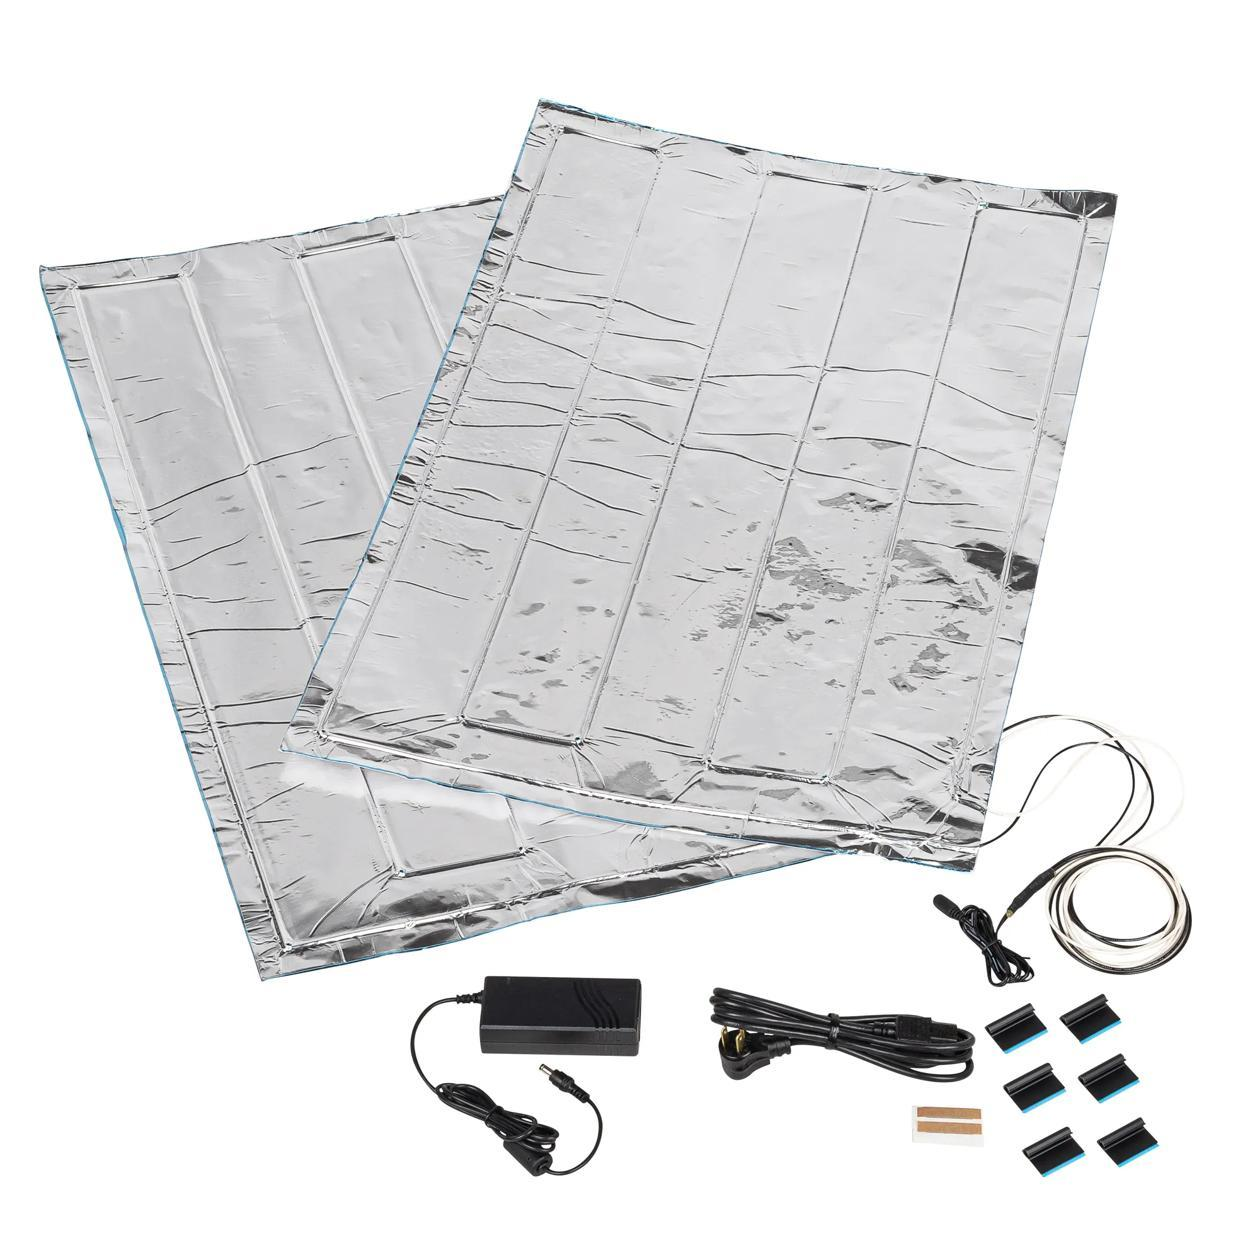
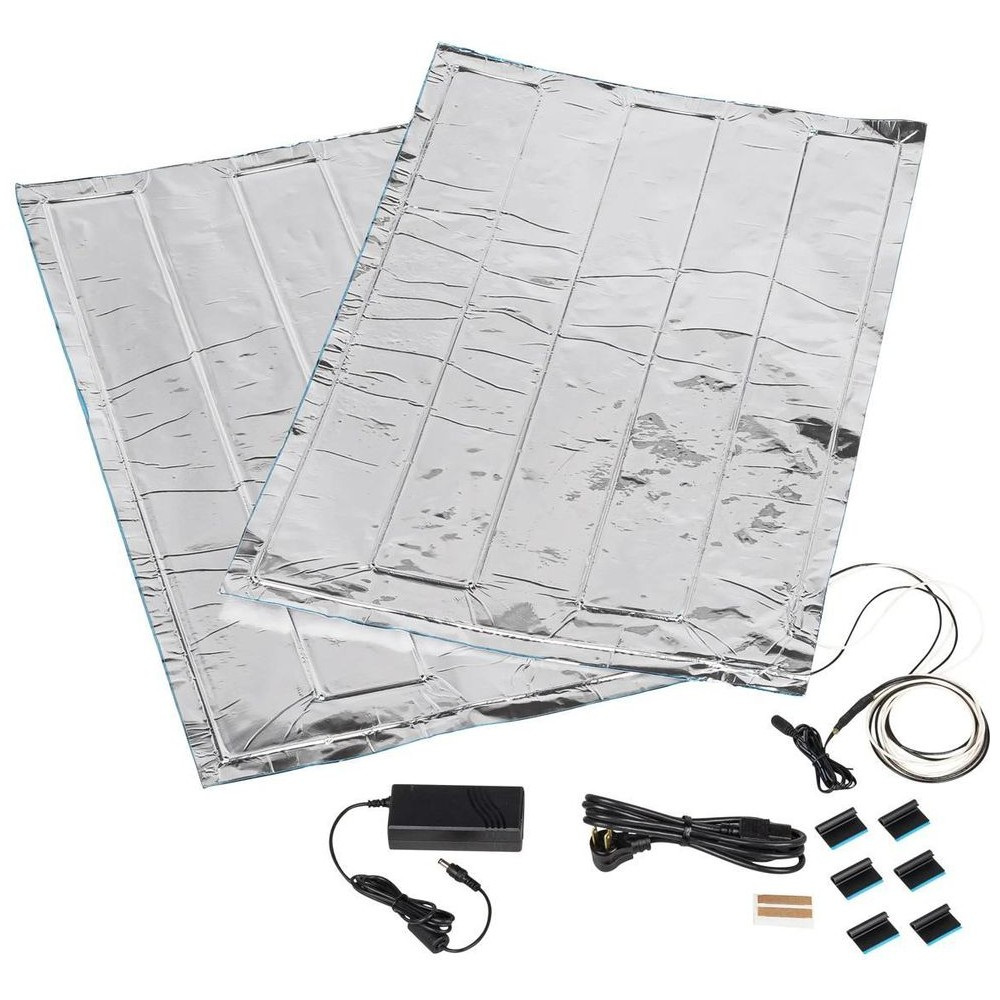
Add /refurbished page + nav link; normalise stock photos so products fill their tiles evenly

Changed region(s): [[0.0, 0.031, 0.992, 0.961], [0.186, 0.341, 0.248, 0.372]]

diff --git a/app/refurbished/page.jsx b/app/refurbished/page.jsx
@@ -1,0 +1,56 @@
+import { getAvailable } from '../../lib/inventory';
+import { getSession } from '../../lib/auth';
+import { decorate } from '../../lib/pricing';
+import { CONDITIONS, money } from '../../lib/constants';
+import ProductCard from '../../components/ProductCard';
+import { groupByModel } from '../../lib/group-units';
+
+export const dynamic = 'force-dynamic';
+
+export const metadata = {
+  title: 'Refurbished Appliances — Inspected, Repaired & Bench-Tested | Bargain Bay',
+  description:
+    'Refurbished appliances at Bargain Bay — professionally inspected, repaired where needed and bench-tested back to full working order, with a one-year warranty. Pickup, delivery & freight serving Pickering, Scarborough and the GTA.'
+};
+
+// Same source and same filter as the Condition dropdown on /shop, so the two can
+// never disagree about what counts as refurbished.
+export default async function RefurbishedPage() {
+  const session = await getSession();
+  const units = (await decorate(await getAvailable({ marketplace: true }), session))
+    .filter((u) => u.condition === 'Refurbished');
+  const totalSaved = units.reduce(
+    (s, u) => s + Math.max(0, (u.compareAt || u.price) - u.price), 0
+  );
+
+  return (
+    <div>
+      <section className="refurb-hero">
+        <div>
+          <span className="clearance-kicker">Refurbished</span>
+          <h1>Inspected, repaired and bench-tested.</h1>
+          <p>
+            {CONDITIONS.Refurbished} Every refurbished appliance is backed by our full{' '}
+            <b>one-year warranty</b>. One of each — when it&apos;s gone, it&apos;s gone.
+          </p>
+        </div>
+      </section>
+
+      {units.length === 0 ? (
+        <div className="panel" style={{ marginTop: 18, fontSize: 15, color: 'var(--muted)' }}>
+          No refurbished units right now — check back soon, or <a href="/shop" style={{ textDecoration: 'underline' }}>browse the full catalogue</a>.
+        </div>
+      ) : (
+        <>
+          <div className="hint" style={{ margin: '14px 0' }}>
+            {units.length} refurbished {units.length === 1 ? 'unit' : 'units'}
+            {totalSaved > 0 && <> · {money(totalSaved)} in total savings off retail</>}
+          </div>
+          <div className="grid">
+            {groupByModel(units).map((g) => <ProductCard key={g.rep.id} unit={g.rep} count={g.count} />)}
+          </div>
+        </>
+      )}
+    </div>
+  );
+}

diff --git a/app/page.jsx b/app/page.jsx
@@ -46,6 +46,7 @@ export default async function Home() {
   // One card per model — four of the same fridge are one listing, not four tiles.
   const newest = newestModels(units, 12);
   const clearance = units.filter((u) => u.onClearance);
+  const refurb = units.filter((u) => u.condition === 'Refurbished');
   const tileImages = Object.fromEntries(COLLECTIONS.map((c) => [c.slug, tileImage(c.slug, units)]));
   const topClearanceOff = clearance.reduce(
     (m, u) => Math.max(m, u.compareAt > u.price ? Math.round((1 - u.price / u.compareAt) * 100) : 0), 0
@@ -108,6 +109,17 @@ export default async function Home() {
             <span className="clearance-banner-sub">Heavy markdowns on tested units · full one-year warranty</span>
           </div>
           <span className="clearance-banner-cta">Shop clearance →</span>
+        </a>
+      )}
+
+      {refurb.length > 0 && (
+        <a href="/refurbished" className="clearance-banner refurb-banner" aria-label="Shop refurbished">
+          <div className="clearance-banner-txt">
+            <span className="clearance-kicker">Refurbished</span>
+            <strong>{refurb.length} refurbished unit{refurb.length === 1 ? '' : 's'}, inspected and repaired</strong>
+            <span className="clearance-banner-sub">Bench-tested back to full working order · full one-year warranty</span>
+          </div>
+          <span className="clearance-banner-cta">Shop refurbished →</span>
         </a>
       )}
 

diff --git a/app/globals.css b/app/globals.css
@@ -609,6 +609,16 @@ table.admin select { padding: 6px 8px; font-size: 13px; width: auto; }
 .clearance-hero h1 { margin: 6px 0 8px; color: #fff; }
 .clearance-hero p { font-size: 14.5px; max-width: 640px; opacity: .95; }
 
+/* Refurbished — same shapes as clearance, in green so the two read as different things. */
+.nav-refurb, .cats-refurb { color: #1f6b43 !important; font-weight: 700; }
+.refurb-banner { background: linear-gradient(100deg, #1f6b43 0%, #154d30 100%); box-shadow: 0 8px 26px rgba(31,107,67,.26); }
+.refurb-hero {
+  margin: 8px 0 4px; padding: 26px 24px; border-radius: 14px;
+  background: linear-gradient(100deg, #1f6b43 0%, #154d30 100%); color: #fff;
+}
+.refurb-hero h1 { margin: 6px 0 8px; color: #fff; }
+.refurb-hero p { font-size: 14.5px; max-width: 640px; opacity: .95; }
+
 /* ============================================================
    Chat FAB (Bay) — Android positioning hardening (C)
    Guarantee a valid fixed position on every browser; layer the

diff --git a/components/Header.jsx b/components/Header.jsx
@@ -34,6 +34,7 @@ export default function Header({ promo = null }) {
             <a href="/shop">Shop</a>
             <a href="/deals" className="nav-clearance">Deals</a>
             <a href="/clearance" className="nav-clearance">Clearance</a>
+            <a href="/refurbished" className="nav-refurb">Refurbished</a>
             <a href="/bundle">Bundle &amp; Save</a>
             <a href="/track">Track Order</a>
             <a href="/contact">Contact</a>
@@ -56,6 +57,7 @@ export default function Header({ promo = null }) {
             <a key={c.slug} href={`/shop?collection=${c.slug}`}>{c.label}</a>
           ))}
           <a href="/clearance" className="cats-clearance">Clearance</a>
+          <a href="/refurbished" className="cats-refurb">Refurbished</a>
         </div>
       </div>
     </header>

diff --git a/app/sitemap.js b/app/sitemap.js
@@ -3,7 +3,7 @@ import { SITE_URL } from '../lib/site';
 
 export default async function sitemap() {
   const now = new Date();
-  const staticPages = ['', '/shop', '/deals', '/giveaway', '/contact', '/track', '/policies/returns', '/policies/shipping', '/policies/privacy', '/policies/terms', '/policies/contact'].map((p) => ({
+  const staticPages = ['', '/shop', '/deals', '/clearance', '/refurbished', '/giveaway', '/contact', '/track', '/policies/returns', '/policies/shipping', '/policies/privacy', '/policies/terms', '/policies/contact'].map((p) => ({
     url: `${SITE_URL}${p}`,
     lastModified: now,
     changeFrequency: p === '' || p === '/shop' ? 'daily' : 'monthly',

diff --git a/components/Footer.jsx b/components/Footer.jsx
@@ -22,6 +22,7 @@ export default function Footer() {
             <h4>Shop</h4>
             <a href="/shop">All inventory</a>
             <a href="/shop?collection=under-500">Deals under $500</a>
+            <a href="/refurbished">Refurbished</a>
             <a href="/cart">Cart</a>
             <a href="/track">Track your order</a>
             <a href="/marketplace">Marketplace</a>

diff --git a/CLAUDE.md b/CLAUDE.md
@@ -93,6 +93,14 @@ four fridges as four identical tiles — which read as the feature breaking ever
 time a lot of identical units arrived. A unit with no model number is never
 grouped: nothing says it is the same appliance.
 
+### `/refurbished` (added 2026-10-09)
+`app/refurbished/page.jsx` — same shape as `/clearance`, same source and filter as
+the Condition dropdown on `/shop` (`condition === 'Refurbished'`, marketplace units
+included), so the two cannot disagree. Linked from the header nav, the categories
+row, the footer and the home page (banner, only when there is stock), and in the
+sitemap. Green (`.refurb-*` in globals.css) so it reads as a different thing from
+the red Clearance.
+
 ### The product tile is square; the photo is not
 `.thumb` (app/globals.css) is `aspect-ratio: 1/1` **plus `min-height: 0`**, and
 its image is **absolutely positioned**. All three are load-bearing and the reason
@@ -115,6 +123,19 @@ So: **a non-square stock photo is fine.** Do not go hunting for square-only
 sources, and do not reach for an image pipeline to trim and pad them — the tile
 normalises presentation now. `normalizeImg` stays useful for AJ Madison because
 it also strips their baked-in white border.
+
+### Every stock photo fills its tile the same amount (added 2026-10-09)
+The tile is a fixed square and the photo is `object-fit: contain`, so tiles were
+always equal — but an appliance looked big or small by how much white margin its
+SOURCE FILE carried: LG's wide 3:2 renders put the product in ~58% of the frame
+and read as toys beside an AJ Madison photo. `node scripts/normalize-stock-photos.mjs`
+(report) / `--write` measures every non-AJ entry in `data/images.json`, and anything
+filling under 95% of its frame is trimmed, scaled to 98% of a 1000x1000 white
+square, saved to `public/model-photos/<KEY>.jpg` and re-pointed there. AJ Madison
+entries are skipped — `normalizeImg` already does the same trim-and-pad at request
+time. **Run it after adding photos to `data/images.json`**; it is idempotent. Hosts
+that 403 scripts (Whirlpool, Maytag, Beko) are reported, not fixed — measured by
+hand in a browser on 2026-10-09 they all sit at 93–100%, so they are fine.
 
 ### Adding to `data/images.json`
 The lookup is `modelImages[model]` — an **exact string match**, no trimming, no
